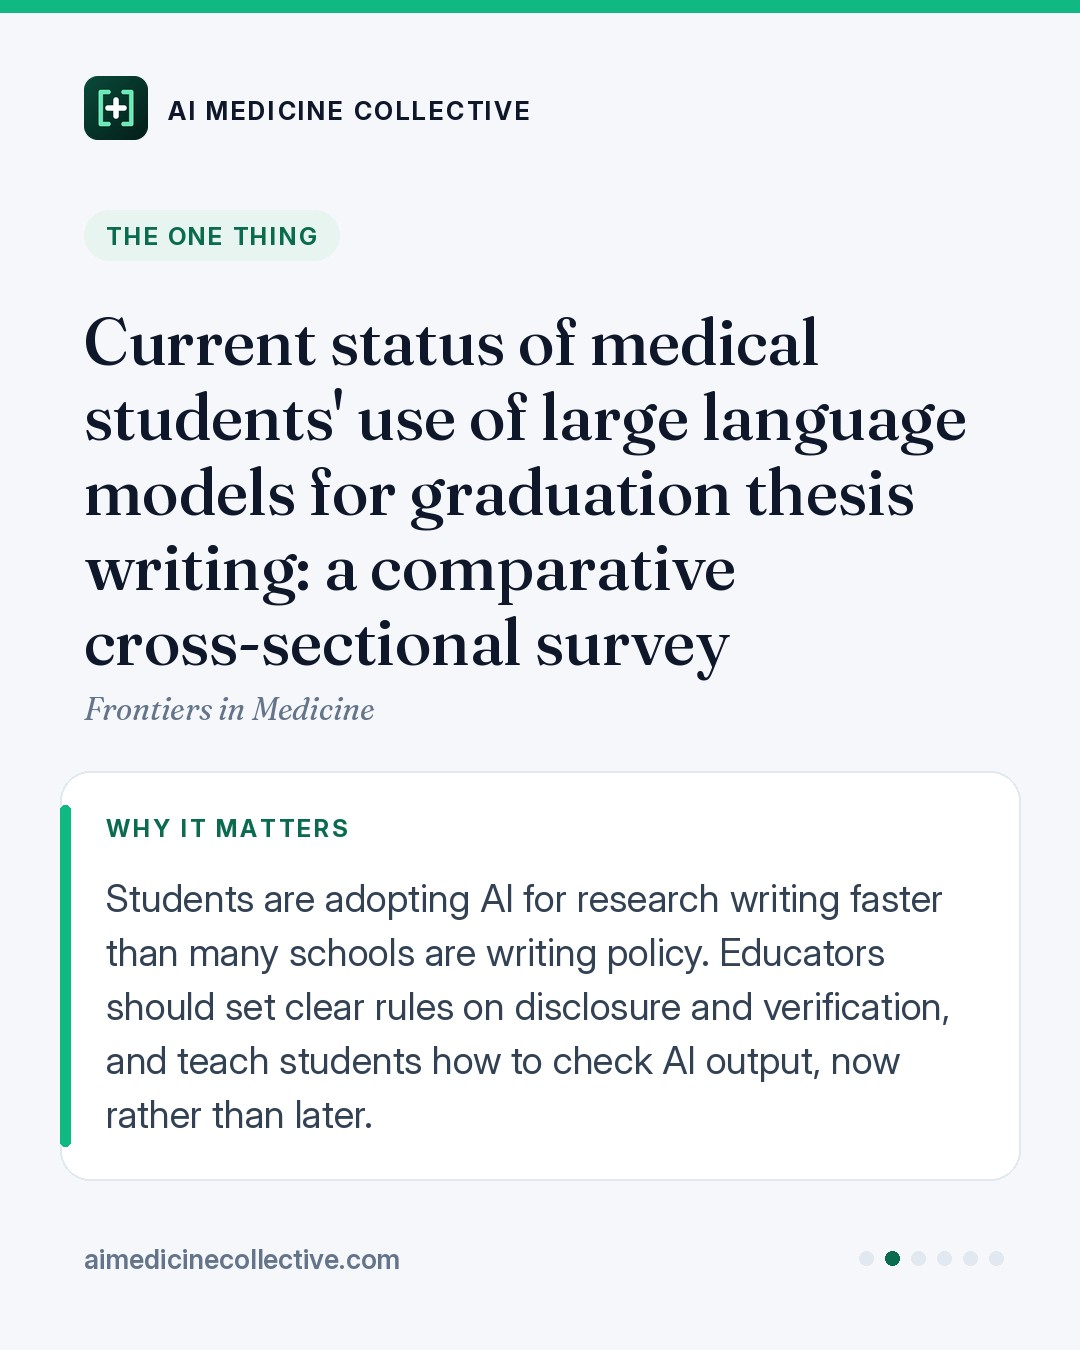
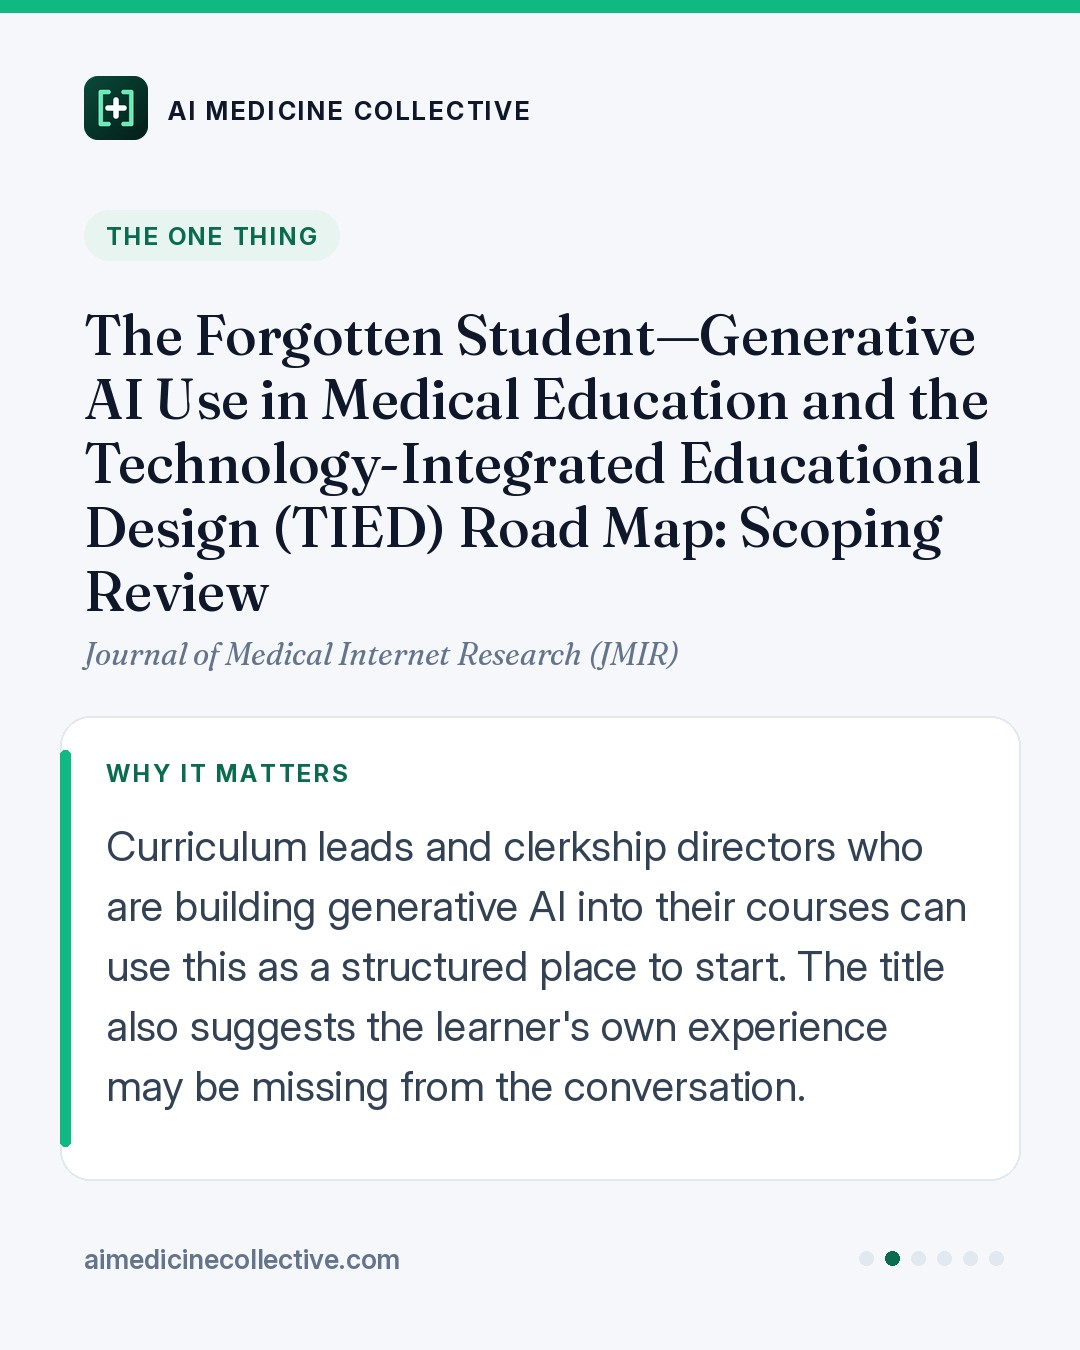
Weekly digest for week ending 2026-10-16

Changed region(s): [[0.0611, 0.2178, 0.9167, 0.5289], [0.0306, 0.56, 0.8861, 0.84]]

diff --git a/newsletter/2026-10-16.html b/newsletter/2026-10-16.html
@@ -2,9 +2,9 @@
 <html lang="en"><head><meta charset="UTF-8">
 <meta name="viewport" content="width=device-width, initial-scale=1.0">
 <meta name="color-scheme" content="light">
-<title>LLMs at both ends of training: thesis writing in China and GPT-4o help for physicians in t…</title></head>
+<title>Generative AI in medical training, and what source-linked AI advice does to physicians&#x27; an…</title></head>
 <body style="margin:0;background:#efeae0;">
-<div style="display:none;max-height:0;overflow:hidden;">Students are adopting AI for research writing faster than many schools are writing policy. Educators should set clear ru…</div>
+<div style="display:none;max-height:0;overflow:hidden;">Curriculum leads and clerkship directors who are building generative AI into their courses can use this as a structured…</div>
 <div style="background:#efeae0;padding:32px 12px;">
 <table role="presentation" width="100%" cellpadding="0" cellspacing="0" style="max-width:620px;margin:0 auto;background:#fffdf8;border:1px solid #ddd5c5;">
 <tr><td style="padding:40px 44px 36px;">
@@ -13,19 +13,22 @@
 <p style="margin:10px 0 16px;text-align:center;font-family:Georgia, 'Times New Roman', Times, serif;font-size:40px;line-height:1.05;font-weight:normal;color:#1c2420;">The Weekly Digest</p>
 <table role="presentation" width="100%" cellpadding="0" cellspacing="0"><tr><td style="border-top:3px double #1c2420;border-bottom:1px solid #1c2420;padding:9px 0;text-align:center;font-family:-apple-system, 'Segoe UI', Roboto, Helvetica, Arial, sans-serif;font-size:11px;letter-spacing:2px;color:#1c2420;">OCTOBER 10 &ndash; OCTOBER 16, 2026 &nbsp;&nbsp;&bull;&nbsp;&nbsp; A TWO-MINUTE READ</td></tr></table>
 <table role="presentation" width="100%" cellpadding="0" cellspacing="0" style="margin:26px 0 0;background:#f4f0e6;"><tr><td style="padding:18px 22px 8px;"><p style="margin:0 0 14px;font-family:-apple-system, 'Segoe UI', Roboto, Helvetica, Arial, sans-serif;font-size:11px;font-weight:bold;letter-spacing:2.5px;color:#0b5d45;text-transform:uppercase;margin-bottom:10px;">In this issue</p>
-<p style="margin:0 0 9px;font-family:Georgia, 'Times New Roman', Times, serif;font-size:16px;line-height:1.45;color:#1c2420;"><span style="font-style:italic;color:#0b5d45;">1.</span>&nbsp; Current status of medical students&#x27; use of large language models for g…</p>
+<p style="margin:0 0 9px;font-family:Georgia, 'Times New Roman', Times, serif;font-size:16px;line-height:1.45;color:#1c2420;"><span style="font-style:italic;color:#0b5d45;">1.</span>&nbsp; The Forgotten Student—Generative AI Use in Medical Education and the T…</p>
 <p style="margin:0 0 9px;font-family:Georgia, 'Times New Roman', Times, serif;font-size:16px;line-height:1.45;color:#1c2420;"><span style="font-style:italic;color:#0b5d45;">2.</span>&nbsp; AI vs physician: AI helped improve</p>
 <p style="margin:0 0 9px;font-family:Georgia, 'Times New Roman', Times, serif;font-size:16px;line-height:1.45;color:#1c2420;"><span style="font-style:italic;color:#0b5d45;">3.</span>&nbsp; Tool of the week: VA Night Float Algorithm – App</p>
 </td></tr></table>
 <div style="height:34px;line-height:34px;font-size:0;">&nbsp;</div>
 <!--AMC:NOTE-->
 <p style="margin:0 0 14px;font-family:-apple-system, 'Segoe UI', Roboto, Helvetica, Arial, sans-serif;font-size:11px;font-weight:bold;letter-spacing:2.5px;color:#0b5d45;text-transform:uppercase;">The one thing</p>
-<p style="margin:0 0 12px;font-family:Georgia, 'Times New Roman', Times, serif;font-size:30px;line-height:1.22;font-weight:normal;color:#1c2420;"><a href="https://www.frontiersin.org/journals/medicine/articles/10.3389/fmed.2026.1948768/full" style="color:#1c2420;text-decoration:none;">Current status of medical students&#x27; use of large language models for graduation thesis writing: a comparative cross-sectional survey</a></p>
-<p style="margin:0 0 14px;font-family:Georgia, 'Times New Roman', Times, serif;font-size:17px;line-height:1.7;color:#333b36;font-size:18px;"><span style="float:left;margin:6px 8px 0 0;font-family:Georgia, 'Times New Roman', Times, serif;font-size:54px;line-height:42px;color:#0b5d45;">S</span>tudents are adopting AI for research writing faster than many schools are writing policy. Educators should set clear rules on disclosure and verification, and teach students how to check AI output, now rather than later.</p>
-<p style="margin:0 0 12px;font-family:Georgia, 'Times New Roman', Times, serif;font-size:14px;font-style:italic;color:#7b766a;clear:both;">Frontiers in Medicine</p>
-<p style="margin:0;font-family:-apple-system, 'Segoe UI', Roboto, Helvetica, Arial, sans-serif;font-size:13px;letter-spacing:0.3px;"><a href="https://www.aimedicinecollective.com/blog.html?date=2026-10-14" style="color:#0b5d45;text-decoration:none;font-weight:bold;">Read our summary &rarr;</a></p>
+<p style="margin:0 0 12px;font-family:Georgia, 'Times New Roman', Times, serif;font-size:30px;line-height:1.22;font-weight:normal;color:#1c2420;"><a href="https://www.jmir.org/2026/1/e96099" style="color:#1c2420;text-decoration:none;">The Forgotten Student—Generative AI Use in Medical Education and the Technology-Integrated Educational Design (TIED) Road Map: Scoping Review</a></p>
+<p style="margin:0 0 14px;font-family:Georgia, 'Times New Roman', Times, serif;font-size:17px;line-height:1.7;color:#333b36;font-size:18px;"><span style="float:left;margin:6px 8px 0 0;font-family:Georgia, 'Times New Roman', Times, serif;font-size:54px;line-height:42px;color:#0b5d45;">C</span>urriculum leads and clerkship directors who are building generative AI into their courses can use this as a structured place to start. The title also suggests the learner&#x27;s own experience may be missing from the conversation.</p>
+<p style="margin:0 0 12px;font-family:Georgia, 'Times New Roman', Times, serif;font-size:14px;font-style:italic;color:#7b766a;clear:both;">Journal of Medical Internet Research (JMIR)</p>
+<p style="margin:0;font-family:-apple-system, 'Segoe UI', Roboto, Helvetica, Arial, sans-serif;font-size:13px;letter-spacing:0.3px;"><a href="https://www.aimedicinecollective.com/blog.html?date=2026-10-16" style="color:#0b5d45;text-decoration:none;font-weight:bold;">Read our summary &rarr;</a></p>
 <hr style="border:0;border-top:1px solid #ddd5c5;margin:34px 0 30px;">
 <p style="margin:0 0 14px;font-family:-apple-system, 'Segoe UI', Roboto, Helvetica, Arial, sans-serif;font-size:11px;font-weight:bold;letter-spacing:2.5px;color:#0b5d45;text-transform:uppercase;">AI vs physician</p>
+<p style="margin:0 0 12px;font-family:Georgia, 'Times New Roman', Times, serif;font-size:23px;line-height:1.22;font-weight:normal;color:#1c2420;"><a href="https://arxiv.org/abs/2608.00817" style="color:#1c2420;text-decoration:none;">Large language models improve physician accuracy but lead to false reliance</a></p>
+<p style="margin:0 0 12px;font-family:Georgia, 'Times New Roman', Times, serif;font-size:15px;font-style:italic;color:#0b5d45;">This week&rsquo;s result: AI helped improve.</p>
+<p style="margin:0 0 14px;font-family:Georgia, 'Times New Roman', Times, serif;font-size:17px;line-height:1.7;color:#333b36;">A citation makes AI advice look trustworthy, but it does not make the advice correct. Learners and educators should practise checking whether the cited sources actually support the answer before accepting it.</p>
 <p style="margin:0 0 12px;font-family:Georgia, 'Times New Roman', Times, serif;font-size:23px;line-height:1.22;font-weight:normal;color:#1c2420;"><a href="https://www.nature.com/articles/s41746-026-03111-5" style="color:#1c2420;text-decoration:none;">Impact of LLM assistance on physician decision-making: a multi-country randomized controlled trial</a></p>
 <p style="margin:0 0 12px;font-family:Georgia, 'Times New Roman', Times, serif;font-size:15px;font-style:italic;color:#0b5d45;">This week&rsquo;s result: AI helped improve.</p>
 <p style="margin:0 0 14px;font-family:Georgia, 'Times New Roman', Times, serif;font-size:17px;line-height:1.7;color:#333b36;">The result shows a general-purpose chatbot helping doctors on written cases compared with doctors who had no references at all. It does not show better patient outcomes or better results than doctors using their usual tools. Educators should keep that distinction clear when teaching about AI decision support.</p>
@@ -33,7 +36,7 @@
 <p style="margin:0 0 12px;font-family:Georgia, 'Times New Roman', Times, serif;font-size:15px;font-style:italic;color:#0b5d45;">This week&rsquo;s result: mixed results.</p>
 <p style="margin:0 0 14px;font-family:Georgia, 'Times New Roman', Times, serif;font-size:17px;line-height:1.7;color:#333b36;">An AI that shows its reasoning through recognisable dermoscopic features may help on hard cases and can double as a teaching aid. Learners should still treat it as a second reader tested on images, not a proven tool for real patients.</p>
 <table role="presentation" width="100%" cellpadding="0" cellspacing="0" style="margin:22px 0 14px;border-top:1px solid #ddd5c5;border-bottom:1px solid #ddd5c5;"><tr><td style="padding:20px 0 18px;"><table role="presentation" width="100%" cellpadding="0" cellspacing="0"><tr>
-<td width="25%" style="padding:6px 6px 4px;text-align:center;border-right:1px solid #ddd5c5;"><div style="font-family:Georgia, 'Times New Roman', Times, serif;font-size:44px;line-height:1;color:#1c2420;">1</div><div style="margin-top:10px;font-family:-apple-system, 'Segoe UI', Roboto, Helvetica, Arial, sans-serif;font-size:10px;font-weight:bold;letter-spacing:2px;color:#7b766a;">AI HELPED PHYSICIANS</div></td>
+<td width="25%" style="padding:6px 6px 4px;text-align:center;border-right:1px solid #ddd5c5;"><div style="font-family:Georgia, 'Times New Roman', Times, serif;font-size:44px;line-height:1;color:#1c2420;">2</div><div style="margin-top:10px;font-family:-apple-system, 'Segoe UI', Roboto, Helvetica, Arial, sans-serif;font-size:10px;font-weight:bold;letter-spacing:2px;color:#7b766a;">AI HELPED PHYSICIANS</div></td>
 <td width="25%" style="padding:6px 6px 4px;text-align:center;border-right:1px solid #ddd5c5;"><div style="font-family:Georgia, 'Times New Roman', Times, serif;font-size:44px;line-height:1;color:#1c2420;">0</div><div style="margin-top:10px;font-family:-apple-system, 'Segoe UI', Roboto, Helvetica, Arial, sans-serif;font-size:10px;font-weight:bold;letter-spacing:2px;color:#7b766a;">AI HELP: NO GAIN OR WORSE</div></td>
 <td width="25%" style="padding:6px 6px 4px;text-align:center;border-right:1px solid #ddd5c5;"><div style="font-family:Georgia, 'Times New Roman', Times, serif;font-size:44px;line-height:1;color:#1c2420;">0</div><div style="margin-top:10px;font-family:-apple-system, 'Segoe UI', Roboto, Helvetica, Arial, sans-serif;font-size:10px;font-weight:bold;letter-spacing:2px;color:#7b766a;">AI ALONE OUTPERFORMED</div></td>
 <td width="25%" style="padding:6px 6px 4px;text-align:center;"><div style="font-family:Georgia, 'Times New Roman', Times, serif;font-size:44px;line-height:1;color:#1c2420;">0</div><div style="margin-top:10px;font-family:-apple-system, 'Segoe UI', Roboto, Helvetica, Arial, sans-serif;font-size:10px;font-weight:bold;letter-spacing:2px;color:#7b766a;">PHYSICIANS AHEAD OR EVEN</div></td>
@@ -41,6 +44,7 @@
 <p style="margin:0;text-align:center;font-family:Georgia, 'Times New Roman', Times, serif;font-size:14px;font-style:italic;line-height:1.5;color:#7b766a;">The running tally of every head-to-head study we have reviewed (plus 2 with mixed results). One study never settles it.</p>
 <hr style="border:0;border-top:1px solid #ddd5c5;margin:34px 0 30px;">
 <p style="margin:0 0 14px;font-family:-apple-system, 'Segoe UI', Roboto, Helvetica, Arial, sans-serif;font-size:11px;font-weight:bold;letter-spacing:2.5px;color:#0b5d45;text-transform:uppercase;">Also this week</p>
+<p style="margin:0 0 14px;font-family:Georgia, 'Times New Roman', Times, serif;font-size:17px;line-height:1.45;color:#1c2420;"><a href="https://www.frontiersin.org/journals/medicine/articles/10.3389/fmed.2026.1948768/full" style="color:#1c2420;text-decoration:underline;text-decoration-color:#ddd5c5;">Current status of medical students&#x27; use of large language models for graduation thesis writing: a comparative cross-sectional survey</a><br><span style="font-size:14px;font-style:italic;color:#7b766a;">Frontiers in Medicine</span></p>
 <p style="margin:0 0 14px;font-family:Georgia, 'Times New Roman', Times, serif;font-size:17px;line-height:1.45;color:#1c2420;"><a href="https://asmepublications.onlinelibrary.wiley.com/doi/10.1111/tct.70531?af=R" style="color:#1c2420;text-decoration:underline;text-decoration-color:#ddd5c5;">Generative Artificial Intelligence Use Among Medical Students: Learner Perspectives for Clinical Educators</a><br><span style="font-size:14px;font-style:italic;color:#7b766a;">The Clinical Teacher (Wiley)</span></p>
 <hr style="border:0;border-top:1px solid #ddd5c5;margin:34px 0 30px;">
 <table role="presentation" width="100%" cellpadding="0" cellspacing="0" style="background:#f4f0e6;"><tr><td style="padding:28px 28px 26px;text-align:center;">
